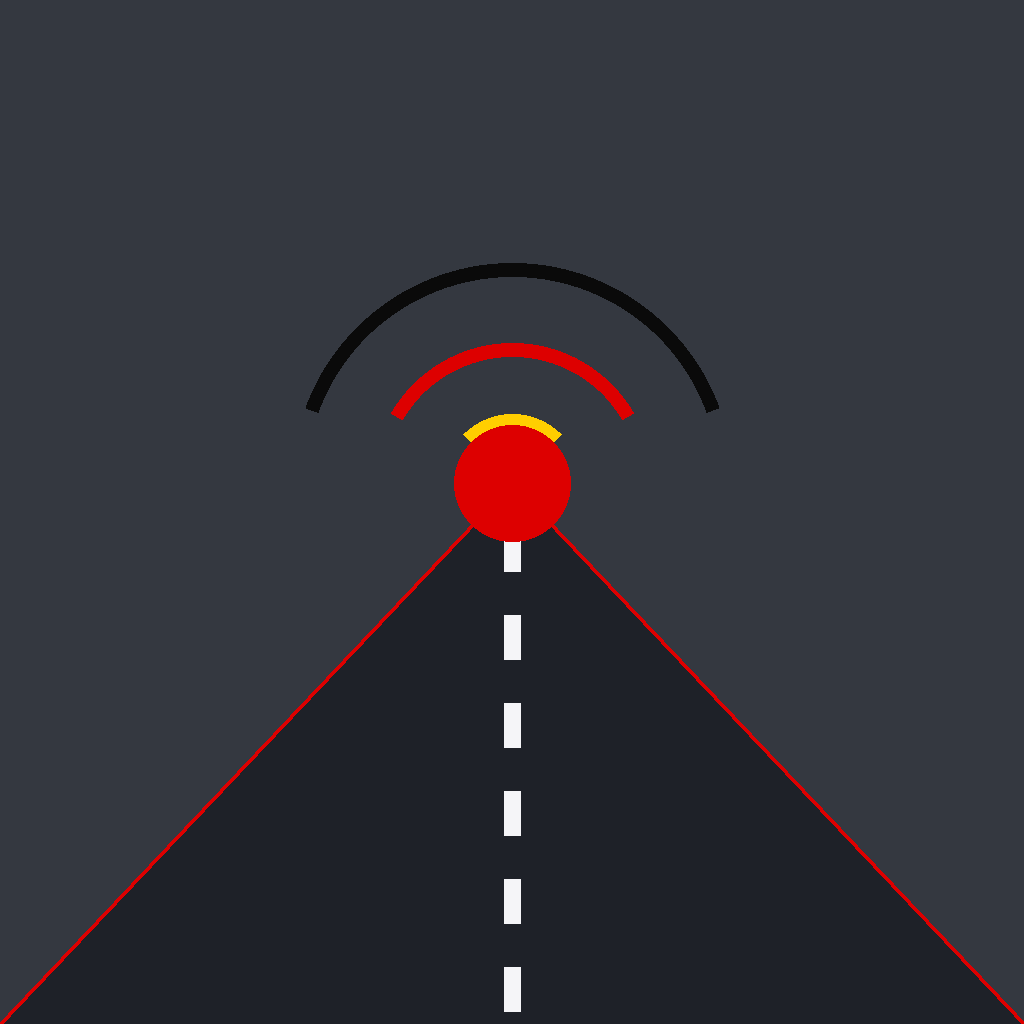
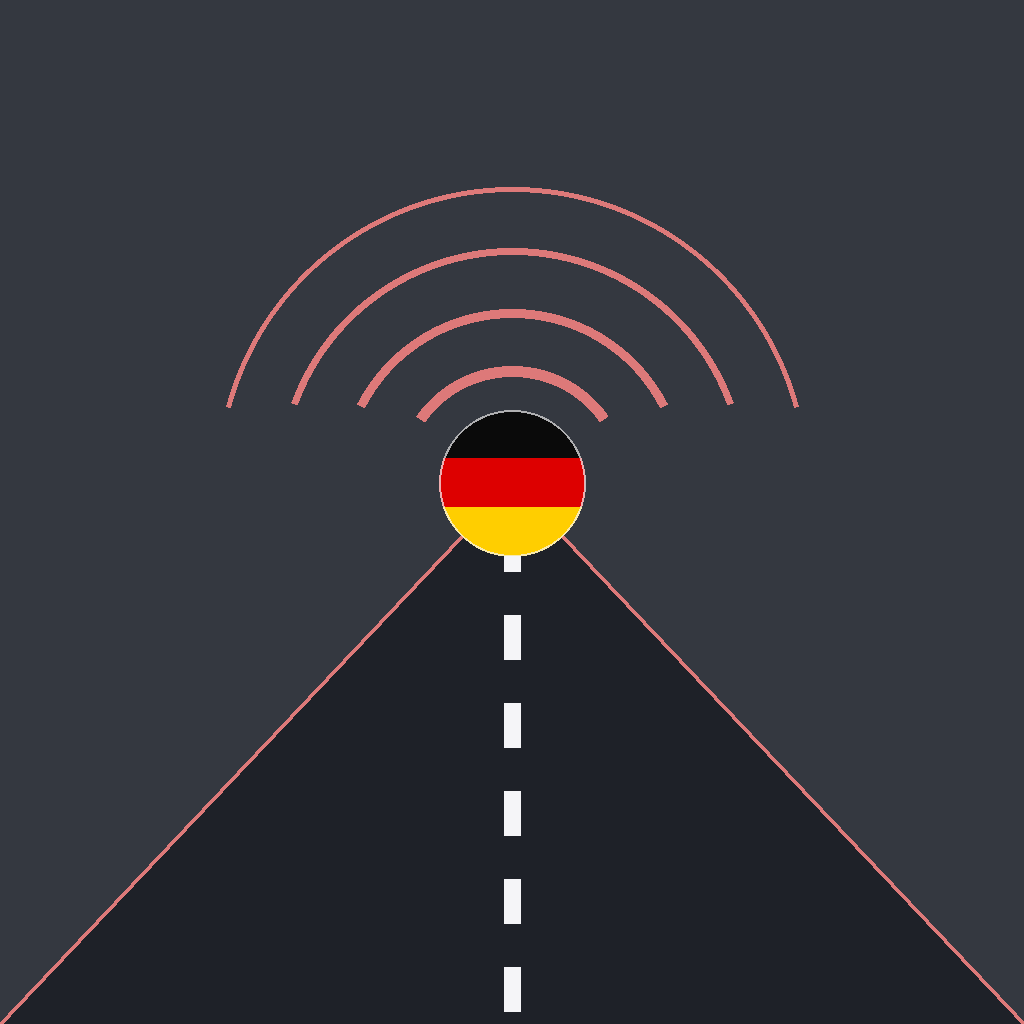
Nouvelle icône (drapeau + ondes désaturées), voix iOS : meilleure voix installée, paywall 1800 phrases, « traduis »
Avec seulement la langue, iOS prenait la voix compacte par défaut et
ignorait les voix Améliorées/Premium téléchargées dans Réglages : on liste
les voix installées et on désigne explicitement la meilleure.

Claude-Session: https://claude.ai/code/session_016o5ttJgVXCSVVzozRGagfj

diff --git a/www/js/app.js b/www/js/app.js
@@ -328,7 +328,7 @@ function buildIntroSegments(){
 
   let pathText;
   if(platform === 'ios'){
-    pathText = "Tu es sur iPhone. Voici le chemin : ouvre l'application Réglages. Va dans Accessibilité. Puis Contenu énoncé. Puis Voix. Puis Français. Et télécharge une voix marquée Améliorée, ou Premium, si elle est proposée. Une fois téléchargée, elle sera automatiquement utilisée ici, sans rien à faire de plus.";
+    pathText = "Tu es sur iPhone. Voici le chemin : ouvre l'application Réglages. Va dans Accessibilité. Puis Contenu énoncé. Puis Voix. Puis Français. Et télécharge une voix marquée Améliorée, ou Premium, si elle est proposée. Fais la même chose dans Allemand, pour la voix allemande. Une fois téléchargées, ces voix seront automatiquement utilisées ici, sans rien à faire de plus.";
   } else if(platform === 'android'){
     pathText = "Tu es sur Android. Voici le chemin, qui peut varier légèrement selon la marque de ton téléphone : ouvre les Paramètres. Va dans Système, ou Paramètres généraux. Puis Langues et saisie. Puis Synthèse vocale, ou Text-to-speech. Choisis le moteur Google. Installe les données vocales en français. Et choisis, si elle est proposée, une voix Réseau plutôt qu'une voix Compacte, pour un rendu plus naturel.";
   } else {
@@ -388,7 +388,7 @@ function buildEvalSegments(mi, anchor, isFinal, evalLabel){
   chosen.forEach((p,i)=>{
     const repeatMs = Math.max(2200, p.de.length*80) + 3000; // même formule que le Test 2
     const ex = {idx:i, total: chosen.length};
-    segs.push(S(p.fr, 'fr', 1, `${evalLabel} — traduce en allemand`, CTX, 'headphones', false, p.fr, '···', ex));
+    segs.push(S(p.fr, 'fr', 1, `${evalLabel} — traduis en allemand`, CTX, 'headphones', false, p.fr, '···', ex));
     segs.push(W(repeatMs, `${evalLabel} — à toi de répondre`, SPK, 'repeat', true, p.fr, '···', ex));
     segs.push(S(p.de, 'de', 0.85, `${evalLabel} — réponse`, TGT, 'speaker', false, p.fr, p.de, ex));
     segs.push(W(400 + 2000, `${evalLabel} — réponse`, TGT, 'speaker', false, p.fr, p.de, ex)); // même écart que le Test 2 (+2s)
@@ -447,7 +447,7 @@ function buildLessonSegments(mi, li){
   shuffled.forEach((p,i)=>{
     const repeatMs = Math.max(2200, p.de.length*80) + 3000;
     const ex = {idx:i, total: shuffled.length};
-    segs.push(S(p.fr, 'fr', 1, 'Test 1 — traduce en allemand', CTX, 'headphones', false, p.fr, '···', ex));
+    segs.push(S(p.fr, 'fr', 1, 'Test 1 — traduis en allemand', CTX, 'headphones', false, p.fr, '···', ex));
     segs.push(W(repeatMs, 'Test 1 — à toi de répondre', SPK, 'repeat', true, p.fr, '···', ex));
     segs.push(S(p.de, 'de', 0.85, 'Test 1 — réponse', TGT, 'speaker', false, p.fr, p.de, ex));
     segs.push(W(400 + 3000, 'Test 1 — réponse', TGT, 'speaker', false, p.fr, p.de, ex));
@@ -461,7 +461,7 @@ function buildLessonSegments(mi, li){
   lesson.phrases.forEach((p,i)=>{
     const repeatMs = Math.max(2200, p.de.length*80) + 3000;
     const ex = {idx:i, total: lesson.phrases.length};
-    segs.push(S(p.fr, 'fr', 1, 'Test 2 — traduce en allemand', CTX, 'headphones', false, p.fr, '···', ex));
+    segs.push(S(p.fr, 'fr', 1, 'Test 2 — traduis en allemand', CTX, 'headphones', false, p.fr, '···', ex));
     segs.push(W(repeatMs, 'Test 2 — à toi de répondre', SPK, 'repeat', true, p.fr, '···', ex));
     segs.push(S(p.de, 'de', 0.85, 'Test 2 — réponse', TGT, 'speaker', false, p.fr, p.de, ex));
     segs.push(W(400 + 2000, 'Test 2 — réponse', TGT, 'speaker', false, p.fr, p.de, ex));
@@ -575,6 +575,45 @@ function hasWebSpeech(){
 function getTTSPlugin(){
   return (window.Capacitor && window.Capacitor.Plugins && window.Capacitor.Plugins.TextToSpeech) || null;
 }
+/* ---------- choix explicite de la meilleure voix iOS/Android ----------
+   Quand on ne passe que la langue au plugin, iOS utilise la voix par défaut
+   de base (compacte, robotique) et IGNORE la voix téléchargée dans Réglages >
+   Accessibilité > Contenu énoncé. On liste donc les voix installées et on
+   désigne nous-mêmes la meilleure : Premium > Améliorée > standard (jamais
+   les voix "fantaisie"). Liste relue au retour au premier plan, pour qu'une
+   voix téléchargée entre-temps soit prise en compte sans relancer l'app. */
+let nativeVoiceIdx = {};
+let nativeVoicesLoaded = false;
+function nativeVoiceScore(v){
+  const id = ((v.voiceURI||'') + ' ' + (v.name||'')).toLowerCase();
+  if(id.includes('eloquence') || id.includes('speech.synthesis.voice') || id.includes('novelty')) return -100;
+  let s = 0;
+  if(id.includes('premium')) s += 30;
+  else if(id.includes('enhanced') || id.includes('amélior') || id.includes('network') || id.includes('réseau')) s += 20;
+  if(id.includes('compact')) s -= 5;
+  return s;
+}
+function bestNativeVoice(list, exact, prefix){
+  const norm = v=>(v.lang||'').toLowerCase().replace('_','-');
+  const all = list.map((v,i)=>({v,i}));
+  let c = all.filter(o=>norm(o.v) === exact);
+  if(!c.length) c = all.filter(o=>norm(o.v).startsWith(prefix));
+  if(!c.length) return -1;
+  c.sort((a,b)=>nativeVoiceScore(b.v) - nativeVoiceScore(a.v));
+  return nativeVoiceScore(c[0].v) < -50 ? -1 : c[0].i;
+}
+async function loadNativeVoices(){
+  if(nativeVoicesLoaded) return;
+  nativeVoicesLoaded = true;
+  const tts = getTTSPlugin();
+  if(!tts || !tts.getSupportedVoices) return;
+  try{
+    const r = await tts.getSupportedVoices();
+    const list = (r && r.voices) || [];
+    nativeVoiceIdx = { fr: bestNativeVoice(list, 'fr-fr', 'fr'), tgt: bestNativeVoice(list, 'de-de', 'de') };
+  }catch(e){ nativeVoiceIdx = {}; }
+}
+document.addEventListener('visibilitychange', ()=>{ if(!document.hidden) nativeVoicesLoaded = false; });
 async function cancelSpeech(){
   if(isNativeApp()){
     const tts = getTTSPlugin();
@@ -607,8 +646,12 @@ function speakSeg(seg, token){
     if(isNativeApp()){
       const tts = getTTSPlugin();
       if(!tts){ resolve(); return; }
+      await loadNativeVoices();
+      const opts = { text: seg.text, lang, rate: seg.rate || 1, category: 'ambient' };
+      const vi = nativeVoiceIdx[seg.lang === 'fr' ? 'fr' : 'tgt'];
+      if(typeof vi === 'number' && vi >= 0) opts.voice = vi;
       try{
-        await tts.speak({ text: seg.text, lang, rate: seg.rate || 1, category: 'ambient' });
+        await tts.speak(opts);
       }catch(e){ /* on continue malgré une éventuelle erreur du plugin */ }
       resolve();
       return;

diff --git a/www/index.html b/www/index.html
@@ -95,7 +95,7 @@
   <div id="paywall">
     <div class="paywall-inner">
       <div class="paywall-icon">🔓</div>
-      <div class="paywall-title">Débloque les 600 phrases</div>
+      <div class="paywall-title">Débloque les 1800 phrases</div>
       <div class="paywall-sub">Les premières leçons de chaque niveau sont gratuites (10 pour le niveau 1, 3 pour les suivants). Passe en version complète pour débloquer tous les modules et tous les niveaux disponibles.</div>
       <button class="end-btn primary" id="buyBtn" style="width:100%;padding:16px;font-size:16px;">Débloquer — 9,99&nbsp;€</button>
       <button class="restore-link" id="restoreBtn">Restaurer mes achats</button>
